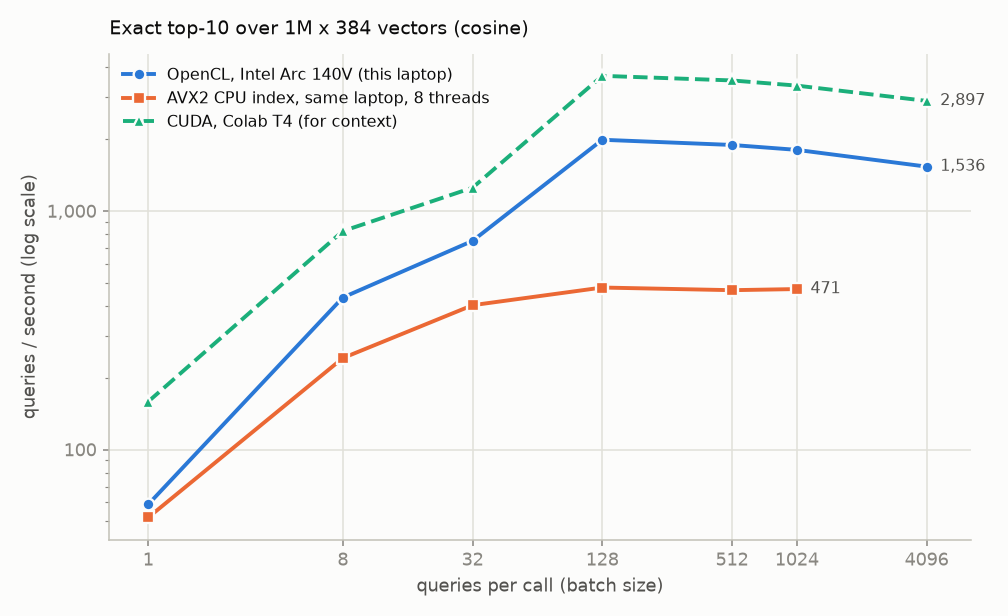
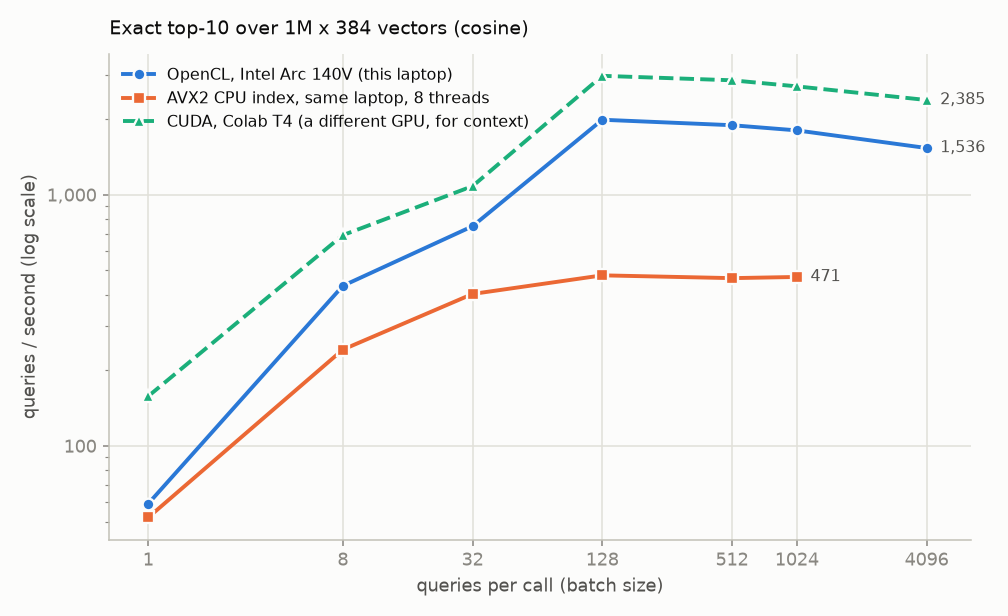
Add the same-GPU OpenCL vs CUDA comparison on a Colab T4

diff --git a/bench/plot_opencl.py b/bench/plot_opencl.py
@@ -2,7 +2,7 @@
 
     python bench/plot_opencl.py --median results/opencl/intel_arc140v_median.csv \
         --methods results/opencl/intel_arc140v_methods.csv --profile results/opencl/intel_arc140v_profile.csv \
-        --cuda results/gpu/colab.csv --out-dir results/opencl
+        --t4 results/opencl/colab_t4.csv --out-dir results/opencl
 
 Colours are the first three slots of the validated categorical palette (blue, orange, aqua; worst
 all-pairs CVD delta-E 9.2). Aqua is under 3:1 against the light surface, so every series is also
@@ -47,14 +47,14 @@ def style(ax, xlabel, ylabel):
     ax.tick_params(length=3)
 
 
-def line_chart(ax, lines):
+def line_chart(ax, lines, dys=None):
     """lines: (label, points, colour, marker, linestyle). Direct label at the right end of each."""
-    for label, pts, colour, marker, ls in lines:
+    for n, (label, pts, colour, marker, ls) in enumerate(lines):
         b = list(pts)
         ax.plot(b, [pts[x] for x in b], color=colour, marker=marker, linestyle=ls, linewidth=2, markersize=6,
                 markeredgecolor=SURFACE, markeredgewidth=1.2, label=label)
-        ax.annotate(f"{pts[b[-1]]:,.0f}", (b[-1], pts[b[-1]]), xytext=(7, 0), textcoords="offset points",
-                    va="center", color=INK2, fontsize=8)
+        ax.annotate(f"{pts[b[-1]]:,.0f}", (b[-1], pts[b[-1]]), xytext=(7, dys[n] if dys else 0),
+                    textcoords="offset points", va="center", color=INK2, fontsize=8)
     ax.set_xscale("log", base=2)
     ax.set_yscale("log")
     ax.set_xticks(sorted({x for _, pts, *_ in lines for x in pts}))
@@ -69,7 +69,8 @@ def main():
     ap.add_argument("--median", required=True, help="median_runs.py output with opencl and cpu rows")
     ap.add_argument("--methods", help="gpu_bench.py CSV with opencl-naive/skinny/tiled rows")
     ap.add_argument("--profile", help="opencl_profile.py CSV")
-    ap.add_argument("--cuda", help="results/gpu/colab.csv, drawn for context (a different GPU, run on another day)")
+    ap.add_argument("--t4", help="Colab T4 CSV with cuda and opencl rows from one session: adds the T4 chart "
+                    "and a CUDA line (a different GPU) to the first chart")
     ap.add_argument("--out-dir", required=True)
     args = ap.parse_args()
     out = Path(args.out_dir)
@@ -77,14 +78,26 @@ def main():
     rows = read(args.median)
     lines = [("OpenCL, Intel Arc 140V (this laptop)", series(rows, "opencl"), BLUE, "o", "-"),
              ("AVX2 CPU index, same laptop, 8 threads", series(rows, "cpu"), ORANGE, "s", "-")]
-    if args.cuda:
-        lines.append(("CUDA, Colab T4 (for context)", series(read(args.cuda), "cuda"), AQUA, "^", "--"))
+    t4 = read(args.t4) if args.t4 else None
+    if t4:
+        lines.append(("CUDA, Colab T4 (a different GPU, for context)", series(t4, "cuda"), AQUA, "^", "--"))
     fig, ax = plt.subplots(figsize=(7.2, 4.4))
     line_chart(ax, lines)
     style(ax, "queries per call (batch size)", "queries / second (log scale)")
     ax.set_title("Exact top-10 over 1M x 384 vectors (cosine)", loc="left", color=INK, fontsize=10, pad=10)
     fig.tight_layout()
     fig.savefig(out / "qps_vs_batch.png", dpi=140)
+
+    if t4:
+        lines = [("CUDA", series(t4, "cuda"), BLUE, "o", "-"),
+                 ("OpenCL (local-memory reduction: the T4 has no sub-groups)", series(t4, "opencl"), ORANGE, "s", "-")]
+        fig, ax = plt.subplots(figsize=(7.2, 4.4))
+        line_chart(ax, lines, dys=[7, -7])
+        style(ax, "queries per call (batch size)", "queries / second (log scale)")
+        ax.legend(frameon=False, fontsize=8, loc="lower right")
+        ax.set_title("Same GPU, same session: CUDA vs OpenCL on a Colab T4", loc="left", color=INK, fontsize=10, pad=10)
+        fig.tight_layout()
+        fig.savefig(out / "t4_cuda_vs_opencl.png", dpi=140)
 
     if args.methods:
         m = read(args.methods)

diff --git a/README.md b/README.md
@@ -111,7 +111,7 @@ ids, dists = gpu.search(queries, k=10)           # k <= 128
 
 ### OpenCL and OpenVINO
 
-The three distance kernels and the top-k kernel are ported to OpenCL C, so the same exact search runs on the laptop's integrated Intel Arc 140V, and on POCL, which runs the same kernels on a CPU. That is what CI uses to check the GPU code on every commit. Everything below is measured on the Arc 140V in WSL2 on AC power (Intel Core Ultra 7 256V), with the CUDA section's data (1M x 384, cosine, k=10) and sweep. Recall against the CPU index is 1.0 in every row.
+The three distance kernels and the top-k kernel are ported to OpenCL C, so the same exact search runs on the laptop's integrated Intel Arc 140V, and on POCL, which runs the same kernels on a CPU. That is what CI uses to check the GPU code on every commit. Everything below is measured on the Arc 140V in WSL2 on AC power (Intel Core Ultra 7 256V), with the CUDA section's data (1M x 384, cosine, k=10) and sweep. Recall against the CPU index is 1.0 in every row. The T4 line on the chart is from a Colab session of its own (see the portability section), not from the CUDA section's table.
 
 ![qps vs batch, OpenCL](results/opencl/qps_vs_batch.png)
 
@@ -138,6 +138,24 @@ Queries per second, median of three full sweeps:
 | 128-4096 | tiled | compute | 48-50% of the FP32 peak (1.8 TFLOP/s at batch 128) |
 
 Small batches are limited by reading the 1.5 GB of vectors, and the kernel already streams them at nearly the measured ceiling. Large batches are limited by compute, but the tiled kernel reaches only half of the peak. The top-k select is the weak spot: it takes 17% of a batch-128 call and 36% of a batch-4096 call, reading the distance block at about 17 GB/s. A fused or faster select is the next speed-up, not the matrix multiply.
+
+#### The cost of portability, on the same T4
+
+The same index built with both backends on one Colab T4, in one session (`bench/opencl_colab.ipynb`). NVIDIA's OpenCL driver reports no sub-group support, so the OpenCL side ran the local-memory reduction instead of sub-groups; this measures that path. Recall against the CPU index is 1.0 throughout.
+
+![CUDA vs OpenCL on a T4](results/opencl/t4_cuda_vs_opencl.png)
+
+| queries per second | 1 | 8 | 32 | 128 | 512 | 1024 | 4096 |
+|---|---|---|---|---|---|---|---|
+| CUDA | 158 | 691 | 1,083 | 2,978 | 2,858 | 2,704 | 2,385 |
+| OpenCL | 158 | 532 | 1,008 | 2,738 | 2,618 | 2,498 | 2,202 |
+| **OpenCL as a share of CUDA** | 100% | **77%** | 93% | 92% | 92% | 92% | 92% |
+
+* **Portability costs about 8% at batch 32 and above**, and nothing at batch 1, where both kernels are limited by the same memory bandwidth (89% of a measured 273 GB/s in both).
+* **The tiled kernel gives up only 3-5%** (97% of CUDA at batch 128, 95% at 1024). The skinny kernel gives up 17-23% at batches 4-128 (78% at batch 8). The skinny kernel is the one that uses a warp reduction, so its loss is consistent with the local-memory reduction costing more than warp shuffles. The Arc 140V shows the same direction: its sub-group version is 29% faster than the fallback at batch 8. The T4 can't separate the two, since it has no sub-group path to compare.
+* **The naive kernel is identical** (about 50 QPS in both), as expected for code that is the same loop.
+* Two runs of the same OpenCL path on the T4 (`opencl` and `opencl-nosg`, which are the same code there) differ by about 4%, so differences below that are noise.
+* This session's CUDA numbers are 14-20% below the CUDA table above at batch 8 and up (2,978 against 3,691 QPS at batch 128) and equal at batch 1; that table was measured on another day. Colab T4s vary, which is why the comparison uses only same-session numbers.
 
 #### Running the models at lower precision
 
@@ -167,7 +185,7 @@ MiniLM (the embedding model support-rag uses) and Qwen2.5-1.5B-Instruct, exporte
 * **My first compute ceiling was wrong.** An FMA microbenchmark written with `float4` chains measured 1.3 TFLOP/s, and the tiled kernel then measured 1.4, above the "ceiling". Intel's compiler turns that loop into code about 2.8x slower than the same loop on scalars (3.6 TFLOP/s). A first fix returned only one lane, so the compiler deleted the rest and reported an impossible 10-27 TFLOP/s.
 * **The first prefill timings were cache hits.** Timing one prompt repeatedly reported 1,834 tokens in 44 ms (42,000 tokens/s) because the pipeline reuses the KV cache of a repeated prefix. Each timed run now has a unique prompt.
 * **The naive kernel isn't repeatable on this GPU:** 14, 9 and 6 QPS across three runs of the same code, while the other two kernels moved by under 10%.
-* **Not measured: the cost of portability on a T4.** That is OpenCL against CUDA on the same GPU. `bench/opencl_colab.ipynb` does it, but I haven't run it, so the only T4 numbers here are the CUDA section's, on different hardware.
+* **The cost of portability was measured on one T4 only, and with the fallback path.** NVIDIA's OpenCL has no sub-groups, so the sub-group kernels were never compared with CUDA's warp shuffles on the same GPU.
 * **INT4 means one recipe.** Plain round-to-nearest 4-bit weights were not tried, and all results are from one laptop whose GPU and CPU share a power budget (run-to-run spread was up to 7% at batch 1, and up to 15% from heat).
 
 ```python

diff --git a/NOTES.md b/NOTES.md
@@ -256,3 +256,35 @@ ones; the naive kernel did not follow that pattern (its cool run was its slowest
 rows are the median of three.
 Earlier in the session (on battery) a 100k-vector smoke test gave a 1.24 TFLOP/s tiled rate, which is
 why the sweep waited for AC.
+
+## Step 3, second comparison: OpenCL vs CUDA on the same T4
+
+Run by the user in Colab with `bench/opencl_colab.ipynb` (branch `opencl`); files in
+`results/opencl/colab_t4*.csv`, `ceilings_t4.json`, `colab_t4_roofline.md`. clinfo on the T4: NVIDIA CUDA
+platform, OpenCL 3.0, OpenCL C 1.2, 40 compute units, max 3.64 GiB allocation, 48 KiB local memory, **"Max
+sub-groups per work group 0"**, so the OpenCL index took the local-memory reduction path in `opencl` as
+well as in `opencl-nosg` (both rows are labelled "local-memory reduction"). Nothing here compares
+sub-groups with CUDA warp shuffles.
+
+Ceilings measured on the T4 with the same microbenchmark: 273.3 GB/s read (85% of 320), 7,649 GFLOP/s
+FP32 FMA (94% of 8.1 TFLOP/s).
+
+| queries/s | 1 | 8 | 32 | 128 | 512 | 1024 | 4096 |
+|---|---|---|---|---|---|---|---|
+| CUDA | 157.8 | 690.9 | 1,083 | 2,977.7 | 2,858.3 | 2,703.6 | 2,385.2 |
+| OpenCL | 158.3 | 532.0 | 1,008.3 | 2,738.1 | 2,617.5 | 2,497.6 | 2,202.2 |
+| ratio | 1.00 | 0.77 | 0.93 | 0.92 | 0.92 | 0.92 | 0.92 |
+
+Per kernel, OpenCL as a share of CUDA (`colab_t4_methods.csv`): naive 0.97-1.03 (same loop), skinny 1.00
+at batch 1 then 0.77-0.83 at batches 4-128, tiled 0.95-0.98. Batch 1 is memory-bound in both (89% of the
+273 GB/s read ceiling, 243 vs 242 GB/s). The skinny loss is the one kernel whose warp reduction became a
+local-memory reduction, and the Arc 140V shows the same direction (its sub-group version is 29% faster than the
+fallback at batch 8), but the T4 has no sub-group path to confirm it. The two OpenCL rows on the T4 are the
+same code and differ by about 4%, which is the noise floor there.
+
+Caution: this session's CUDA numbers are 14-20% below the CUDA README table at batch 8 and up (2,978 vs 3,691
+at batch 128), equal at batch 1. Different day, different Colab T4 (driver 580.82.07). Only same-session
+numbers are compared.
+
+The files were uploaded into the support-rag folder (`support-rag/opencl_t4_results/`, untracked there);
+the four T4 files were copied here. That folder can be deleted from support-rag.

diff --git a/results/opencl/colab_t4_roofline.md b/results/opencl/colab_t4_roofline.md
@@ -1,0 +1,25 @@
+Ceilings (Tesla T4): 273 GB/s read, 7,649 GFLOP/s FP32 FMA; ridge point 28 FLOP/byte.
+
+| backend | batch | kernel | ms | queries/s | data passes | FLOP/byte | GB/s streamed | GFLOP/s computed | bound by | % of that ceiling |
+|---|---|---|---|---|---|---|---|---|---|---|
+| cuda | 1 | skinny | 6.3 | 158 | 1 | 0.5 | 242 | 121 | memory | 89% |
+| cuda | 8 | skinny | 11.6 | 691 | 1 | 4.0 | 133 | 531 | memory | 49% |
+| cuda | 32 | tiled | 29.5 | 1,083 | 1 | 64.0 | 52 | 3,327 | compute | 43% |
+| cuda | 128 | tiled | 43.0 | 2,978 | 1 | 64.0 | 36 | 2,287 | compute | 30% |
+| cuda | 512 | tiled | 179.1 | 2,858 | 4 | 64.0 | 34 | 2,195 | compute | 29% |
+| cuda | 1024 | tiled | 378.8 | 2,704 | 8 | 64.0 | 32 | 2,076 | compute | 27% |
+| cuda | 4096 | tiled | 1717.2 | 2,385 | 32 | 64.0 | 29 | 1,832 | compute | 24% |
+| opencl | 1 | skinny | 6.3 | 158 | 1 | 0.5 | 243 | 122 | memory | 89% |
+| opencl | 8 | skinny | 15.0 | 532 | 1 | 4.0 | 102 | 409 | memory | 37% |
+| opencl | 32 | tiled | 31.7 | 1,008 | 1 | 64.0 | 48 | 3,098 | compute | 40% |
+| opencl | 128 | tiled | 46.7 | 2,738 | 1 | 64.0 | 33 | 2,103 | compute | 27% |
+| opencl | 512 | tiled | 195.6 | 2,618 | 4 | 64.0 | 31 | 2,010 | compute | 26% |
+| opencl | 1024 | tiled | 410.0 | 2,498 | 8 | 64.0 | 30 | 1,918 | compute | 25% |
+| opencl | 4096 | tiled | 1860.0 | 2,202 | 32 | 64.0 | 26 | 1,691 | compute | 22% |
+| opencl-nosg | 1 | skinny | 6.4 | 157 | 1 | 0.5 | 242 | 121 | memory | 88% |
+| opencl-nosg | 8 | skinny | 15.4 | 520 | 1 | 4.0 | 100 | 399 | memory | 37% |
+| opencl-nosg | 32 | tiled | 33.5 | 956 | 1 | 64.0 | 46 | 2,938 | compute | 38% |
+| opencl-nosg | 128 | tiled | 49.0 | 2,611 | 1 | 64.0 | 31 | 2,005 | compute | 26% |
+| opencl-nosg | 512 | tiled | 203.2 | 2,519 | 4 | 64.0 | 30 | 1,935 | compute | 25% |
+| opencl-nosg | 1024 | tiled | 426.5 | 2,401 | 8 | 64.0 | 29 | 1,844 | compute | 24% |
+| opencl-nosg | 4096 | tiled | 1899.8 | 2,156 | 32 | 64.0 | 26 | 1,656 | compute | 22% |
